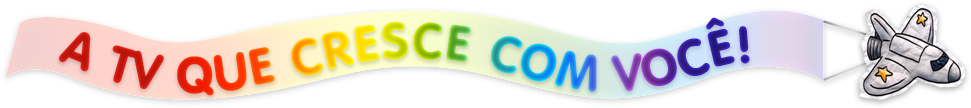
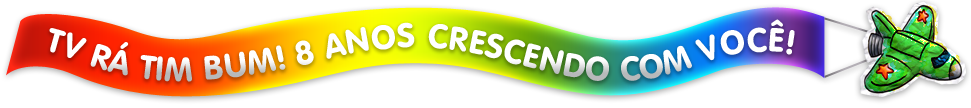
ra tim bum

diff --git a/apps/frontend/templates/tvratimbum/_menu.php b/apps/frontend/templates/tvratimbum/_menu.php
@@ -51,7 +51,8 @@
             </ul>
           </div>
         </div>
-        <!--img class="destaqueTopo" src="/portal/tvratimbum/image/banner-0412.png" alt="A TV que cresce com você!" /-->
+        <img class="destaqueTopo" src="/portal/tvratimbum/image/banner-0412.png" alt="TV Rá Tim Bum! 8 anos crescendo com você!" />
+        <!--
         <div id="destaque-ferias">
           <ul>
             <li>
@@ -80,3 +81,4 @@
             </li>
           </ul>
         </div> 
+        -->
